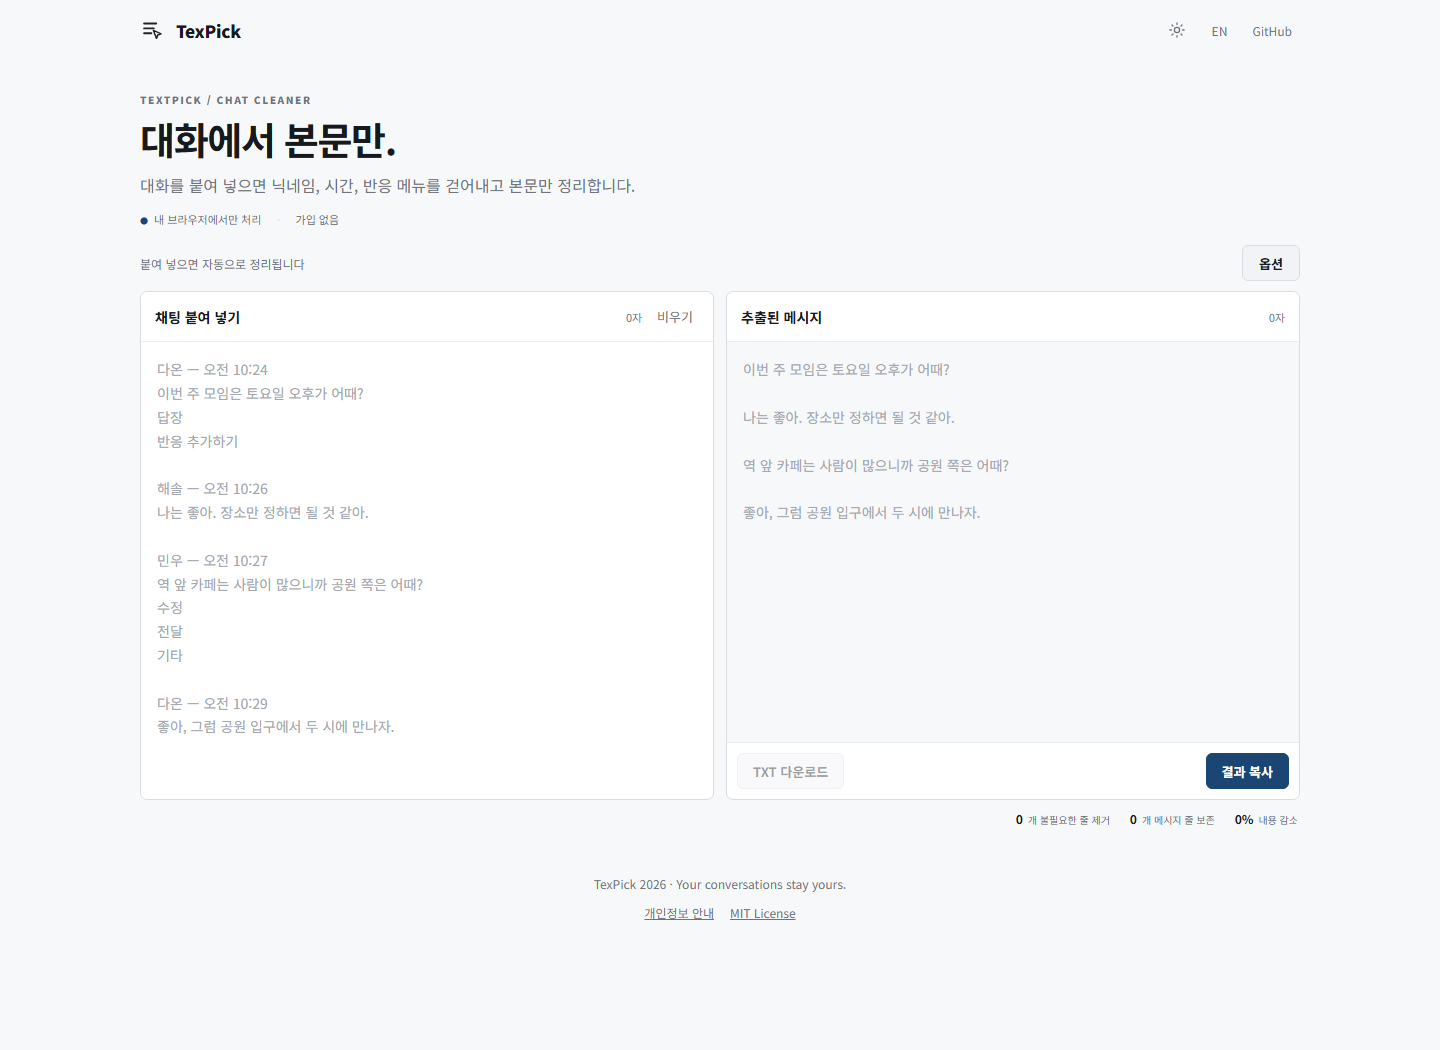
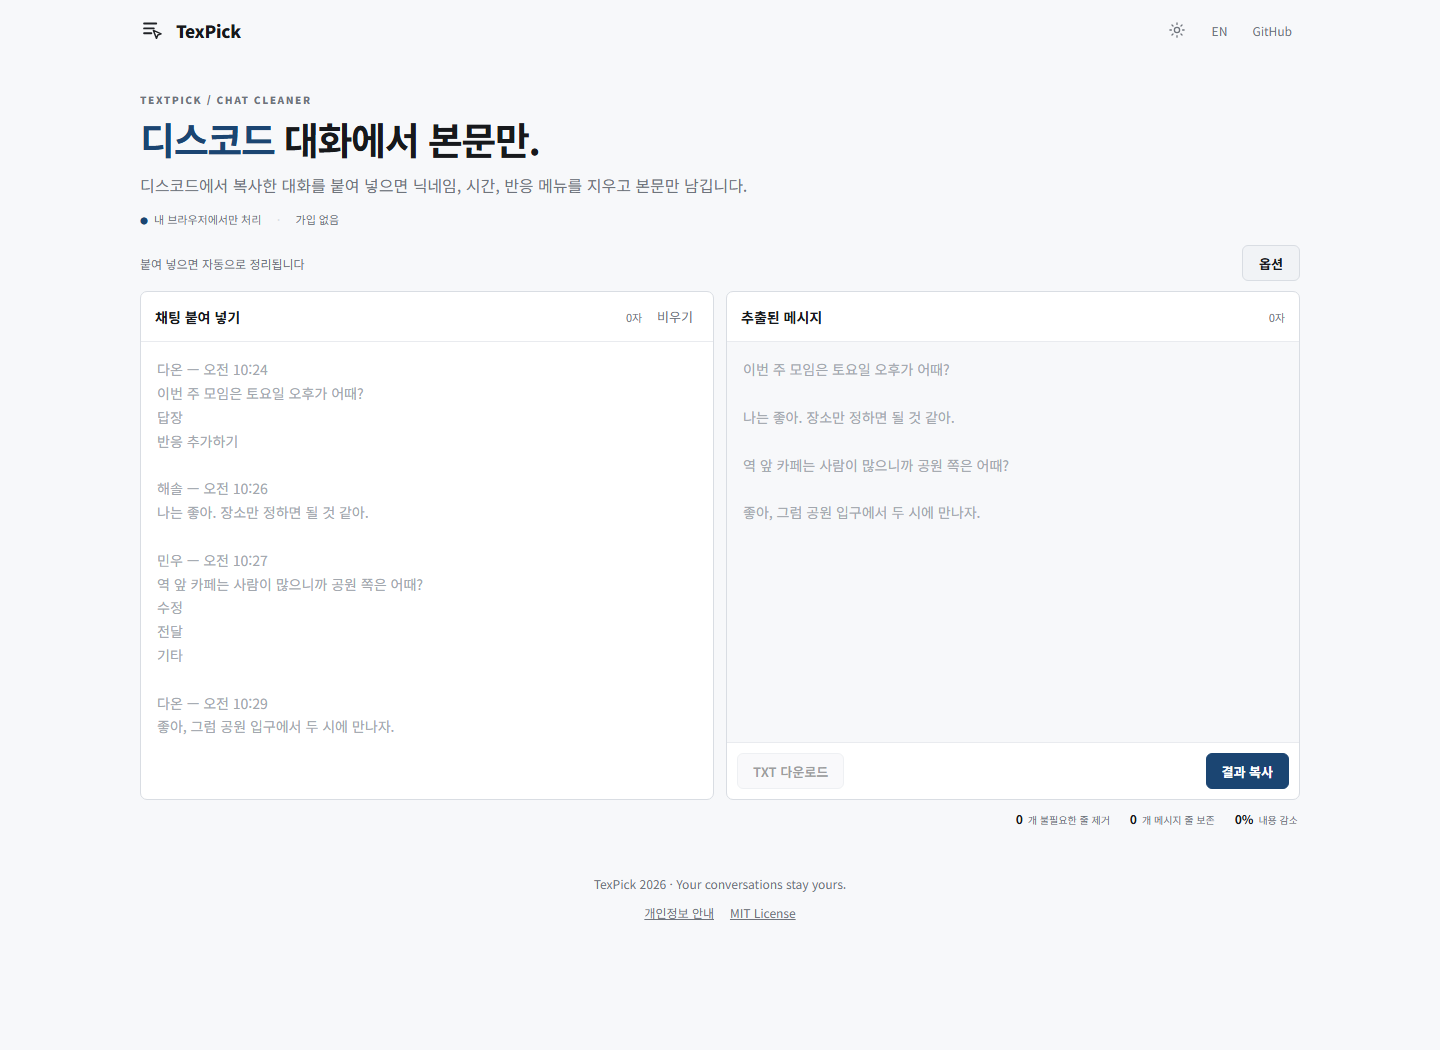
Clarify Discord-focused positioning

Changed region(s): [[0.0938, 0.1219, 0.5, 0.1829]]

diff --git a/src/app.js b/src/app.js
@@ -18,8 +18,8 @@
   const translations = {
     ko: {
       eyebrow: "TEXTPICK / CHAT CLEANER",
-      heroTitle: "대화에서 본문만.",
-      heroDescription: "대화를 붙여 넣으면 닉네임, 시간, 반응 메뉴를 걷어내고 본문만 정리합니다.",
+      heroTitle: '<span class="hero-product">디스코드</span> 대화에서 본문만.',
+      heroDescription: "디스코드에서 복사한 대화를 붙여 넣으면 닉네임, 시간, 반응 메뉴를 지우고 본문만 남깁니다.",
       privacyTitle: "내 브라우저에서만 처리",
       privacyBody: "붙여 넣은 내용은 기기 밖으로 나가지 않으며 저장되지 않습니다.",
       noAccount: "가입 없음",
@@ -73,8 +73,8 @@
     },
     en: {
       eyebrow: "TEXTPICK / CHAT CLEANER",
-      heroTitle: "Just the message.",
-      heroDescription: "Paste a conversation and remove names, timestamps, reactions, and interface labels.",
+      heroTitle: '<span class="hero-product">Discord</span> messages, minus the clutter.',
+      heroDescription: "Paste a conversation copied from Discord and remove names, timestamps, reactions, and interface labels.",
       privacyTitle: "Runs only in your browser",
       privacyBody: "Pasted text never leaves your device and is never stored.",
       noAccount: "No account",

diff --git a/index.html b/index.html
@@ -41,9 +41,9 @@
     <section class="hero">
       <div class="hero-copy">
         <p class="eyebrow" data-i18n="eyebrow">TEXTPICK / CHAT CLEANER</p>
-        <h1 data-i18n="heroTitle">대화에서 본문만.</h1>
+        <h1 data-i18n="heroTitle"><span class="hero-product">디스코드</span> 대화에서 본문만.</h1>
         <p class="hero-description" data-i18n="heroDescription">
-          대화를 붙여 넣으면 닉네임, 시간, 반응 메뉴를 걷어내고 본문만 정리합니다.
+          디스코드에서 복사한 대화를 붙여 넣으면 닉네임, 시간, 반응 메뉴를 지우고 본문만 남깁니다.
         </p>
         <div class="hero-notes" role="note">
           <span data-i18n="privacyTitle">내 브라우저에서만 처리</span>
@@ -181,6 +181,6 @@
   <div class="toast" id="toast" role="status" aria-live="polite"></div>
 
   <script src="src/extractor.js"></script>
-  <script src="src/app.js?v=3"></script>
+  <script src="src/app.js?v=4"></script>
 </body>
 </html>

diff --git a/redesign.css b/redesign.css
@@ -137,6 +137,10 @@ main {
   white-space: nowrap;
 }
 
+.hero-product {
+  color: #1b4572;
+}
+
 .hero-description {
   max-width: 620px;
   margin-top: 12px;